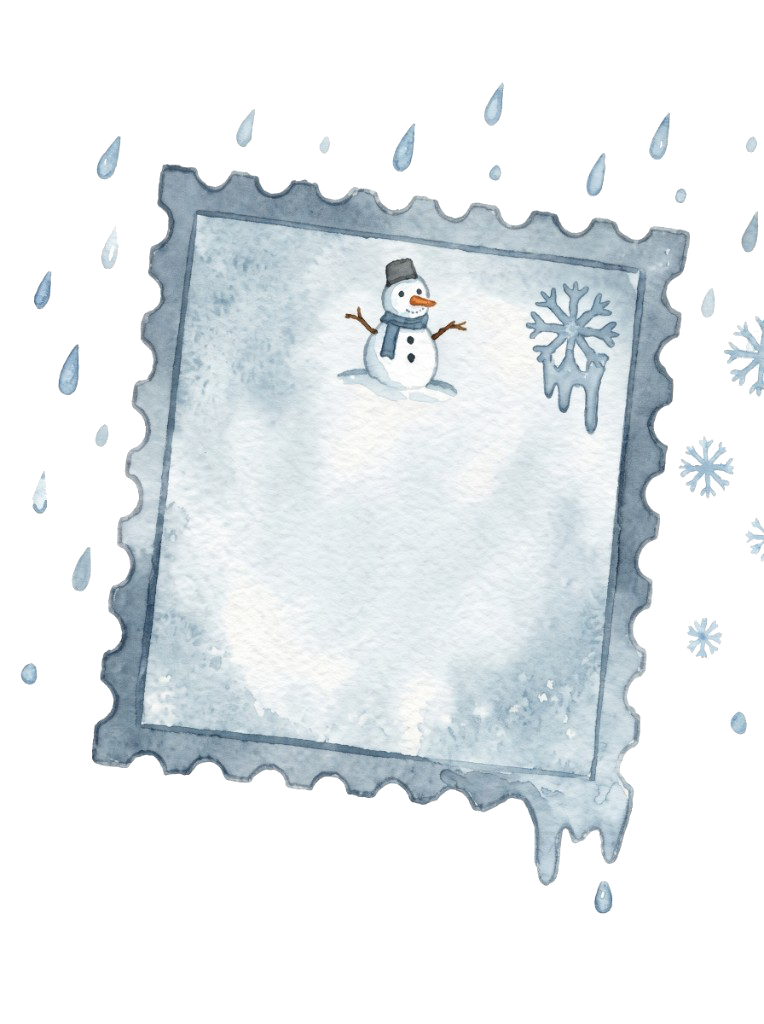
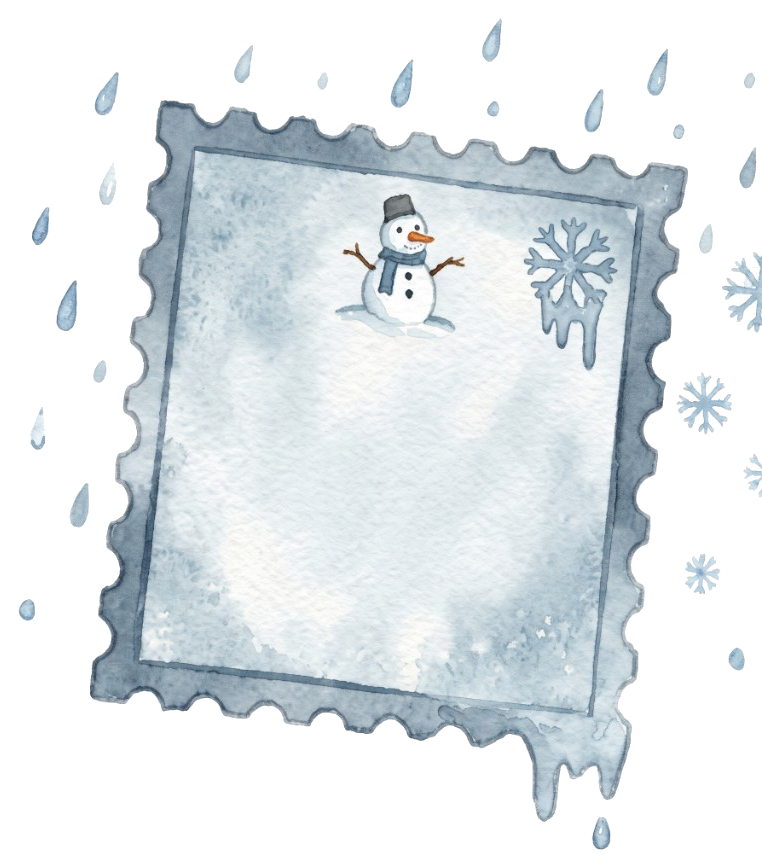
Let the RSVP stamps sit on the paper with larger centered words.

diff --git a/app/globals.css b/app/globals.css
@@ -540,60 +540,63 @@ input, textarea {
 .stamps {
   display: grid;
   grid-template-columns: 1fr 1fr;
-  gap: 0.75rem;
+  gap: 0.35rem;
+  align-items: start;
 }
 
 .stamp {
+  appearance: none;
   position: relative;
   isolation: isolate;
   display: block;
   width: 100%;
-  aspect-ratio: 764 / 1024;
-  min-height: 0;
+  height: auto;
+  margin: 0;
   padding: 0;
   overflow: visible;
   border: 0;
   border-radius: 0;
-  background: transparent;
+  background: none;
+  box-shadow: none;
   color: var(--ink);
   transition: transform 0.28s ease;
 }
 
 .stamp-art {
-  position: absolute;
-  inset: 0;
+  display: block;
   width: 100%;
-  height: 100%;
-  object-fit: cover;
+  height: auto;
   pointer-events: none;
-  filter: drop-shadow(0 8px 12px rgba(70, 50, 30, 0.08));
+  filter: drop-shadow(0 8px 10px rgba(70, 50, 30, 0.1));
   transition: filter 0.28s ease;
 }
 
 .stamp-copy {
   position: absolute;
   z-index: 2;
-  left: 22%;
-  right: 22%;
-  top: 40%;
+  left: 24%;
+  right: 24%;
+  top: 46%;
   display: flex;
   flex-direction: column;
   align-items: center;
+  gap: 0.28rem;
   text-align: center;
-  text-shadow: 0 1px 0 rgba(255, 250, 243, 0.85);
+  text-shadow: 0 1px 0 rgba(255, 250, 243, 0.8);
 }
 
 .stamp strong {
   font-family: var(--font-display), Georgia, serif;
   font-weight: 560;
-  font-size: clamp(0.82rem, 2.5vw, 1.05rem);
-  line-height: 1.15;
+  font-size: clamp(1.05rem, 2.7vw, 1.85rem);
+  line-height: 1.02;
   color: #7a1c24;
 }
 
 .stamp small {
-  color: var(--ink-soft);
-  font-size: 0.75rem;
+  color: #3a2a22;
+  font-size: clamp(0.72rem, 1.5vw, 0.95rem);
+  line-height: 1.2;
 }
 
 .stamp-yes:hover,
@@ -607,16 +610,6 @@ input, textarea {
   filter: drop-shadow(0 16px 18px rgba(150, 100, 40, 0.28)) brightness(1.04);
 }
 
-.stamp-note {
-  max-height: 0;
-  overflow: hidden;
-  opacity: 0;
-  font-style: normal;
-  font-size: 0.72rem;
-  line-height: 1.3;
-  color: #5d6e7c;
-}
-
 .stamp-no:hover,
 .stamp-no.on:hover {
   transform: translateY(3px) rotate(-1.5deg) scale(0.98);
@@ -626,13 +619,6 @@ input, textarea {
 .stamp-no.on:hover .stamp-art,
 .stamp-no.on .stamp-art {
   filter: drop-shadow(0 16px 18px rgba(70, 100, 120, 0.26)) brightness(1.03);
-}
-
-.stamp-no:hover .stamp-note,
-.stamp-no.on .stamp-note {
-  max-height: 2.8rem;
-  margin-top: 0.2rem;
-  opacity: 1;
 }
 
 .stamp:focus-visible {

diff --git a/components/rsvp-form.tsx b/components/rsvp-form.tsx
@@ -193,9 +193,9 @@ export function RsvpForm({ onBack, toolbar }: { onBack: () => void; toolbar?: Re
             className={coming === "yes" ? "stamp stamp-yes on" : "stamp stamp-yes"}
             onClick={() => choose("yes")}
           >
-            <Image className="stamp-art" src="/art/stamp-yes.png" alt="" width={764} height={1024} />
+            <Image className="stamp-art" src="/art/stamp-yes.png" alt="" width={764} height={621} />
             <span className="stamp-copy">
-              <strong>Joyfully Accepts</strong>
+              <strong>Joyfully<br />Accepts</strong>
               <small>Count us in!</small>
             </span>
           </button>
@@ -206,11 +206,10 @@ export function RsvpForm({ onBack, toolbar }: { onBack: () => void; toolbar?: Re
             className={coming === "no" ? "stamp stamp-no on" : "stamp stamp-no"}
             onClick={() => choose("no")}
           >
-            <Image className="stamp-art" src="/art/stamp-no.png" alt="" width={764} height={1024} />
+            <Image className="stamp-art" src="/art/stamp-no.png" alt="" width={762} height={868} />
             <span className="stamp-copy">
-              <strong>Regretfully Declines</strong>
-              <small>Will miss the fun</small>
-              <em className="stamp-note" aria-hidden="true">We’ll miss you at the party! 🥺</em>
+              <strong>Regretfully<br />Declines</strong>
+              <small>Will miss the fun! 🥺</small>
             </span>
           </button>
         </div>
